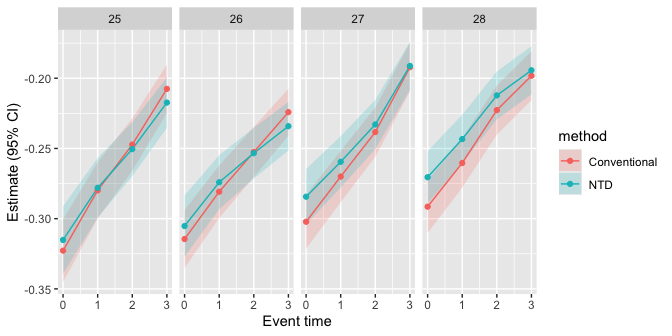
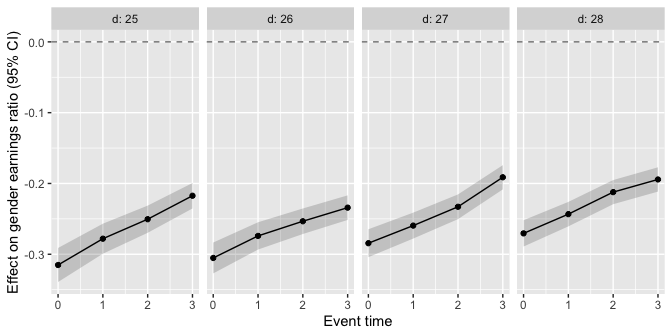
README example: the NTD estimator only

diff --git a/README.md b/README.md
@@ -53,9 +53,9 @@ remotes::install_github("dorleventer/childpen")
 
 ## Example
 
-The effect of parenthood on the gender earnings ratio and the
-conventional estimator, by treatment group and event time (the paper’s
-Figure 6b), on simulated data:
+The effect of parenthood on the gender earnings ratio, by treatment
+group and event time (the NTD estimates of the paper’s Figure 6b), on
+simulated data:
 
 ``` r
 library(childpen)
@@ -63,11 +63,12 @@ library(ggplot2)
 sim <- simulate_data(n_individuals = 20000, treatment_groups = 24:32)
 res <- multiple_treatment_group_analysis(sim, treatment_groups = 25:28, periods_post = 3,
                                          periods_pre = NULL, verbose = FALSE)
-est <- subset(res, (method == "NTD" & estimand == "rho_effect") |
-                   (method == "Conventional" & estimand == "gap_theta"))
-ggplot(est, aes(event_time, est, ymin = ci_l, ymax = ci_h, colour = method, fill = method)) +
-  geom_ribbon(alpha = 0.2, colour = NA) + geom_line() + geom_point() +
-  facet_wrap(~ d, nrow = 1) + labs(x = "Event time", y = "Estimate (95% CI)")
+est <- subset(res, method == "NTD" & estimand == "rho_effect")
+ggplot(est, aes(event_time, est, ymin = ci_l, ymax = ci_h)) +
+  geom_hline(yintercept = 0, linetype = "dashed", colour = "grey50") +
+  geom_ribbon(alpha = 0.2) + geom_line() + geom_point() +
+  facet_wrap(~ d, nrow = 1, labeller = label_both) +
+  labs(x = "Event time", y = "Effect on gender earnings ratio (95% CI)")
 ```
 
 <img src="man/figures/README-example-1.png" width="100%" />
